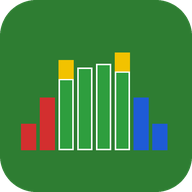
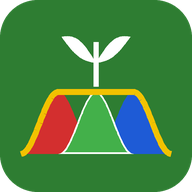
Ícono nuevo, pestaña resaltada, pantallas compactas y coma decimal
- Ícono: tres pasadas (roja, verde, azul) cuya suma es la línea amarilla
  pareja, con un brote: la app ya es de fertilización, no solo de
  calibración.
- Pestaña seleccionada con fondo y franja de color.
- Aviso "girá el celular" en Cajas y Pasadas cuando está vertical.
- Lote y Fertilizantes compactas: entran en una pantalla de 360 × 740.
- Números siempre con coma decimal y sin separador de miles.
- "Ubicación del lote (para la dosis equivalente de P)".
- Sin botones "Calibrar" en Más económica.
- Sin selector de módulo arriba (queda el botón ⇄ de las barras).

diff --git a/index.html b/index.html
@@ -19,10 +19,6 @@
       <button class="btn-info" data-ayuda aria-label="Ayuda">?</button>
       <button class="btn-info" data-acerca aria-label="Acerca de">i</button>
     </div>
-    <div class="segmentado selector-modulo">
-      <button data-ir-modulo="distribucion">Distribución</button>
-      <button data-ir-modulo="recomendacion">Recomendación y costos</button>
-    </div>
     <div class="tarjeta instalar" id="tarjeta-instalar" hidden>
       <h2>Instalar en el celular</h2>
       <p class="ayuda">Queda con su ícono y funciona sin señal en el campo.</p>
@@ -81,24 +77,21 @@
       <button class="btn-info" data-ayuda aria-label="Ayuda">?</button>
       <button class="btn-info" data-acerca aria-label="Acerca de">i</button>
     </div>
-    <div class="segmentado selector-modulo">
-      <button data-ir-modulo="distribucion">Distribución</button>
-      <button data-ir-modulo="recomendacion">Recomendación y costos</button>
-    </div>
     <div class="tarjeta">
-      <h2>Cultivo</h2>
-      <div class="segmentado" id="cultivo-sel">
-        <button data-cultivo="maiz">Maíz</button>
-        <button data-cultivo="soja">Soja</button>
-        <button data-cultivo="trigo">Trigo</button>
+      <div class="fila fila-centro">
+        <div class="segmentado" id="cultivo-sel" style="flex:2">
+          <button data-cultivo="maiz">Maíz</button>
+          <button data-cultivo="soja">Soja</button>
+          <button data-cultivo="trigo">Trigo</button>
+        </div>
+        <label class="campo"><span>Rendimiento (t/ha)</span><input type="text" inputmode="decimal" data-lote="rendimiento"></label>
       </div>
-      <label class="campo" style="margin-top:10px"><span>Rendimiento esperado (t/ha)</span><input type="text" inputmode="decimal" data-lote="rendimiento"></label>
     </div>
     <div class="tarjeta" id="tarjeta-n">
       <h2>Nitrógeno</h2>
       <div class="fila">
-        <label class="campo"><span>N de nitratos 0–60 cm a la siembra (kg N/ha)</span><input type="text" inputmode="decimal" data-lote="nSuelo"></label>
-        <label class="campo"><span>Umbral de N: suelo + fertilizante (kg N/ha)</span><input type="text" inputmode="decimal" data-lote="umbralN"></label>
+        <label class="campo"><span>Nitratos 0–60 cm a la siembra (kg N/ha)</span><input type="text" inputmode="decimal" data-lote="nSuelo"></label>
+        <label class="campo"><span>Umbral: suelo + fertilizante (kg N/ha)</span><input type="text" inputmode="decimal" data-lote="umbralN"></label>
       </div>
     </div>
     <div class="tarjeta">
@@ -107,19 +100,18 @@
         <label class="campo"><span>P Bray 1, 0–20 cm (ppm)</span><input type="text" inputmode="decimal" data-lote="bray"></label>
         <label class="campo"><span>Nivel crítico (ppm)</span><input type="text" inputmode="decimal" data-lote="criticoP"></label>
       </div>
-      <label class="check"><input type="checkbox" id="rotacion-trigo"> La rotación incluye trigo: usar 19 ppm para todos los cultivos</label>
+      <label class="check"><input type="checkbox" id="rotacion-trigo"> Rotación con trigo (crítico de 19 ppm para todos)</label>
       <div class="fila">
-        <label class="campo"><span>Arcilla, 0–20 cm (%)</span><input type="text" inputmode="decimal" data-lote="arcilla"></label>
-        <label class="campo"><span>Densidad aparente (g/cm³)</span><input type="text" inputmode="decimal" data-lote="densidad"></label>
+        <label class="campo"><span>Arcilla (%)</span><input type="text" inputmode="decimal" data-lote="arcilla"></label>
+        <label class="campo"><span>Dens. aparente (g/cm³)</span><input type="text" inputmode="decimal" data-lote="densidad"></label>
+        <label class="campo"><span>P en grano (kg P/t)</span><input type="text" inputmode="decimal" data-lote="pGrano"></label>
       </div>
-      <span class="etq-campo">Ubicación del lote</span>
+      <span class="etq-campo">Ubicación del lote (para la dosis equivalente de P)</span>
       <div class="segmentado" id="zona-sel">
         <button data-zona="1">Norte</button>
         <button data-zona="0">Sur</button>
       </div>
-      <p class="ayuda">La divisoria es la Pampa Deprimida (cuenca del Salado). <b>Norte:</b> Pampa Ondulada y Pampa Llana. <b>Sur:</b> Pampa Austral (sudeste y sudoeste bonaerense).</p>
-      <label class="campo" style="margin-top:8px"><span>P exportado por tonelada de grano (kg P/t)</span><input type="text" inputmode="decimal" data-lote="pGrano"></label>
-      <p class="ayuda">Valores por defecto: niveles críticos de Sucunza et al. (2018) y P en grano de las tablas del IPNI. Todos se pueden cambiar.</p>
+      <p class="ayuda">Respecto de la Pampa Deprimida (cuenca del Salado). <b>Norte:</b> Pampa Ondulada y Llana. <b>Sur:</b> Pampa Austral.</p>
     </div>
   </section>
 
@@ -131,11 +123,15 @@
   <!-- ============ RECOMENDACIÓN: FERTILIZANTES ============ -->
   <section class="pantalla" id="p-fert">
     <div class="tarjeta">
-      <h2>Fertilizantes y precios</h2>
-      <p class="ayuda">Grado en elemento (N-P-K-S) y, debajo, grado equivalente en óxidos (N-P₂O₅-K₂O-S), como en la bolsa. Precio en U$S por tonelada.</p>
-      <label class="campo" style="max-width:220px"><span>Fecha de los precios</span><input type="date" id="fecha-precios"></label>
+      <div class="cab-fert">
+        <h2>Precios (U$S/t)</h2>
+        <label class="fecha-chica"><span>al</span><input type="date" id="fecha-precios"></label>
+      </div>
       <div class="tabla-desliza"><table class="tabla tabla-fert" id="tabla-fert"></table></div>
-      <p class="ayuda">Debajo del costo por kg de P figura el costo por kg de P₂O₅, para comparar con las publicaciones que lo expresan así. En los compuestos (DAP, MAP) el precio se reparte entre N y P según lo que costaría cada uno en el fertilizante simple más barato.</p>
+      <p class="ayuda">Grado en elemento y, debajo, en óxidos. Costo de P: debajo, por kg de P₂O₅. En DAP y MAP el precio se reparte entre N y P.</p>
+      <div class="botones"><button class="btn chico" id="btn-actualizar-precios">Actualizar precios</button>
+        <button class="btn sec chico" id="btn-editar-lista">Editar lista</button>
+        <button class="btn sec chico" id="btn-restaurar-fert">Lista original</button></div>
     </div>
     <details class="tarjeta" id="agregar-fert">
       <summary>Agregar un fertilizante</summary>
@@ -150,9 +146,6 @@
       <label class="campo" style="max-width:220px"><span>Precio (U$S/t)</span><input type="text" inputmode="numeric" id="nf-precio"></label>
       <div class="botones"><button class="btn" id="nf-agregar">Agregar</button></div>
     </details>
-    <div class="botones"><button class="btn" id="btn-actualizar-precios">Actualizar precios</button>
-      <button class="btn sec" id="btn-editar-lista">Editar lista</button>
-      <button class="btn sec" id="btn-restaurar-fert">Volver a la lista original</button></div>
   </section>
 
   <!-- ============ RECOMENDACIÓN: COMBINACIÓN ============ -->
@@ -201,7 +194,7 @@
           <li><b>Lote:</b> elegí el cultivo y cargá el rendimiento esperado, los nitratos de 0–60 cm a la siembra, el P Bray, la arcilla, la densidad aparente y la zona (norte o sur de la Pampa Deprimida).</li>
           <li><b>Dosis N y P:</b> muestra la dosis de N y las dos dosis de P: <b>suficiencia</b> (lleva el P al nivel crítico para esta campaña) y <b>construcción y mantenimiento</b> (además repone lo que se lleva la cosecha).</li>
           <li><b>Fertilizantes:</b> con "Actualizar precios" se descargan los últimos precios publicados; también podés cargarlos a mano en U$S por tonelada. Con "Editar lista" podés quitar productos; también podés agregar otros.</li>
-          <li><b>Más económica:</b> la combinación de fertilizantes más barata que cubre la dosis. "Calibrar" lleva la dosis del producto a la calibración del módulo Distribución.</li>
+          <li><b>Más económica:</b> la combinación de fertilizantes más barata que cubre la dosis.</li>
         </ol>
       </details>
       <details>
@@ -257,6 +250,7 @@
 
   <!-- ============ CAJAS (perfil único) ============ -->
   <section class="pantalla llena" id="p-cajas">
+    <div class="girar-aviso">↻ Girá el celular para ver mejor esta pantalla</div>
     <div class="cabecera-cajas">
       <b>Peso por caja (g)</b>
       <span class="ayuda">← deslizá de costado →</span>
@@ -269,6 +263,7 @@
 
   <!-- ============ PASADAS ============ -->
   <section class="pantalla llena" id="p-pasadas">
+    <div class="girar-aviso">↻ Girá el celular para ver mejor esta pantalla</div>
     <div class="controles-pasadas">
       <div class="segmentado" id="modo-pasadas">
         <button data-modo="continuo">Continuo</button>

diff --git a/css/estilos.css b/css/estilos.css
@@ -283,5 +283,38 @@ small.eq { color: var(--texto-suave); font-size: 12px; }
 .ayuda-texto h3 { margin: 10px 0 4px; }
 
 /* Botón para cambiar de módulo, al principio de cada barra de pestañas */
-nav.pestanas button.cambiar-modulo { flex: 0.8; color: var(--verde-osc); border-right: 1px solid var(--borde); background: var(--verde-claro); }
+nav.pestanas button.cambiar-modulo { flex: 0.8; color: var(--texto-suave); border-right: 1px solid var(--borde); background: #eef0ee; }
 nav.pestanas button.cambiar-modulo .flecha { font-size: 20px; line-height: 24px; font-weight: 700; }
+
+/* Pestaña seleccionada: fondo y franja de color */
+nav.pestanas button.activa { background: var(--verde-claro); color: var(--verde-osc); box-shadow: inset 0 3px 0 var(--verde); }
+
+/* Aviso para girar el celular (solo en vertical, en Cajas y Pasadas) */
+.girar-aviso { display: none; align-items: center; justify-content: center; gap: 6px;
+  background: #fff7e0; border: 1px solid #f0d58a; color: var(--aviso); border-radius: 8px;
+  padding: 5px 8px; font-size: 13px; }
+@media (orientation: portrait) { .girar-aviso { display: flex; } }
+
+/* Lote y Fertilizantes más compactas, para que entren sin desplazarse */
+#p-lote .tarjeta, #p-fert .tarjeta { padding: 8px 10px; margin-bottom: 8px; }
+#p-lote .tarjeta h2, #p-fert .tarjeta h2 { font-size: 15px; margin: 0 0 6px; }
+#p-lote label.campo { margin-bottom: 6px; }
+#p-lote label.campo > span { font-size: 12px; line-height: 1.2; margin-bottom: 2px; }
+#p-lote input[type=text] { padding: 6px 8px; }
+#p-lote .fila { gap: 8px; align-items: flex-end; }
+#p-lote .fila-centro { align-items: flex-end; }
+#p-lote .fila-centro .segmentado { margin-bottom: 6px; }
+#p-lote .segmentado button { padding: 6px; }
+#p-lote label.check { font-size: 13px; margin: 0 0 6px; }
+#p-lote .ayuda { font-size: 12px; margin: 3px 0 0; }
+#p-lote .titulo-app, #p-ensayo .titulo-app { margin-bottom: 8px; }
+.cab-fert { display: flex; align-items: center; justify-content: space-between; gap: 8px; }
+.cab-fert h2 { margin: 0 !important; }
+.fecha-chica { display: flex; align-items: center; gap: 4px; font-size: 13px; color: var(--texto-suave); }
+.fecha-chica input { padding: 4px 6px; font-size: 13px; width: auto; }
+#p-fert .ayuda { font-size: 12px; margin: 4px 0; }
+#p-fert .botones { margin-top: 4px; gap: 6px; }
+#p-fert .tabla-fert td, #p-fert .tabla-fert th { padding-top: 2px; padding-bottom: 2px; }
+#p-fert .tabla-fert td.grado { line-height: 1.15; }
+#p-fert details.tarjeta { padding-top: 6px; padding-bottom: 6px; }
+#p-fert details summary { margin: 0; }

diff --git a/js/app-reco.js b/js/app-reco.js
@@ -252,9 +252,8 @@
     if (!ops.length) { lista.innerHTML = `<div class="aviso">No hay fertilizantes con precio que cubran lo necesario. Cargá los precios en la pantalla Fertilizantes.</div>`; return; }
     const fecha = leer(CLAVE_FECHA, "");
     lista.innerHTML = ops.map((o, i) => {
-      const filas = o.items.map((it, j) => `<li><span class="prod">${escapar(it.f.nombre)}</span>
-          <span class="cant">${fmt(it.kg, 0)} kg/ha</span><span class="costo">U$S ${fmt(it.kg * it.f.precio / 1000, 1)}</span>
-          <button class="btn sec chico" data-op="${i}" data-item="${j}">Calibrar</button></li>`).join("");
+      const filas = o.items.map((it) => `<li><span class="prod">${escapar(it.f.nombre)}</span>
+          <span class="cant">${fmt(it.kg, 0)} kg/ha</span><span class="costo">U$S ${fmt(it.kg * it.f.precio / 1000, 1)}</span></li>`).join("");
       const sobraN = o.aporteN - n, sobraP = o.aporteP - pReq;
       const sobra = [sobraN > 0.5 ? `${fmt(sobraN, 0)} kg de N` : "", sobraP > 0.5 ? `${fmt(sobraP, 0)} kg de P` : ""].filter(Boolean);
       return `<div class="tarjeta opcion${i === 0 ? " mejor" : ""}">
@@ -262,12 +261,8 @@
         <ul class="items">${filas}</ul>
         <p class="ayuda" style="margin:4px 0 0">Aporta ${fmt(o.aporteN, 0)} kg N y ${fmt(o.aporteP, 0)} kg P por ha${sobra.length ? ` (sobran ${sobra.join(" y ")})` : ""}.</p>
       </div>`;
-    }).join("") + `<p class="ayuda">Costo solo del producto, con los precios de la pantalla Fertilizantes${fecha ? ` (${fecha.split("-").reverse().join("/")})` : ""}. "Calibrar" lleva esa dosis a la calibración de la fertilizadora.</p>
+    }).join("") + `<p class="ayuda">Costo solo del producto, con los precios de la pantalla Fertilizantes${fecha ? ` (${fecha.split("-").reverse().join("/")})` : ""}.</p>
       <div class="botones"><button class="btn sec" data-informe-reco>Informe PDF</button></div>`;
-    $$("#comb-lista button[data-op]").forEach((b) => b.addEventListener("click", () => {
-      const it = ops[+b.dataset.op].items[+b.dataset.item];
-      App.calibrarPara(it.kg);
-    }));
     enlazarInforme();
   }
 

diff --git a/js/app.js b/js/app.js
@@ -105,7 +105,7 @@
   }
 
   // ---------- Navegación ----------
-  const VERSION = "3.3.0";
+  const VERSION = "3.4.0";
   let pantallaAnterior = "ensayo";
   $("#version-app").textContent = VERSION;
   $$("[data-acerca]").forEach((b) => { b.onclick = () => { if (pantalla !== "acerca" && pantalla !== "ayuda") pantallaAnterior = pantalla; irA("acerca"); }; });
@@ -745,13 +745,6 @@
   window.App = {
     irA, toast, leer, escribir, mostrarValor, aviso, fmt, abrirInforme, informe,
     registrar(p, fn) { otrasPantallas[p] = fn; },
-    // Lleva una dosis de producto (kg/ha) a la calibración de la fertilizadora.
-    calibrarPara(kgHa) {
-      cal.objetivo = Math.round(kgHa);
-      escribir(CLAVE_CAL, cal);
-      irA("dosis");
-      toast(`Dosis a calibrar: ${fmt(cal.objetivo, 0)} kg/ha`);
-    },
   };
 
   // Arranca cuando ya se cargaron todos los módulos.

diff --git a/js/recomendacion.js b/js/recomendacion.js
@@ -56,8 +56,8 @@ const Recomendacion = (() => {
   // Avisos cuando los datos salen del rango en que se ajustó el modelo de Rubio.
   function avisosRubio({ bray, arcilla }) {
     const av = [];
-    if (bray < 2.4 || bray > 35.6) av.push(`El P Bray (${bray} ppm) está fuera del rango de los suelos del trabajo (2,4 a 35,6 ppm).`);
-    if (arcilla < 8.7 || arcilla > 37.6) av.push(`La arcilla (${arcilla} %) está fuera del rango de los suelos del trabajo (8,7 a 37,6 %).`);
+    if (bray < 2.4 || bray > 35.6) av.push(`El P Bray (${String(bray).replace(".", ",")} ppm) está fuera del rango de los suelos del trabajo (2,4 a 35,6 ppm).`);
+    if (arcilla < 8.7 || arcilla > 37.6) av.push(`La arcilla (${String(arcilla).replace(".", ",")} %) está fuera del rango de los suelos del trabajo (8,7 a 37,6 %).`);
     return av;
   }
 

diff --git a/js/graficos.js b/js/graficos.js
@@ -28,7 +28,15 @@ const Graficos = (() => {
     return res;
   }
 
-  const fmt = (v, dec = 1) => v.toLocaleString("es-AR", { maximumFractionDigits: dec });
+  // Números con coma decimal y sin separador de miles (1250,5), igual en
+  // todos los teléfonos, sin depender de la configuración regional.
+  const fmt = (v, dec = 1) => {
+    if (v === null || v === undefined || !isFinite(v)) return "—";
+    let t = Number(v).toFixed(dec);
+    if (t.includes(".")) t = t.replace(/0+$/, "").replace(/\.$/, "");
+    if (t === "-0") t = "0";
+    return t.replace(".", ",");
+  };
 
   // Prepara el lienzo y devuelve funciones de escala.
   function lienzo(svg, alto, xmin, xmax, ymax, opciones = {}) {

diff --git a/sw.js b/sw.js
@@ -2,7 +2,7 @@
 // Calculadora de Fertilización · © 2026 Juan Manuel Vázquez
 // Guarda la app en el teléfono para que funcione sin conexión en el campo.
 // Al publicar cambios hay que subir el número de versión.
-const VERSION = "fertilizacion-v10";
+const VERSION = "fertilizacion-v11";
 const ARCHIVOS = [
   "./", "index.html", "manifest.webmanifest", "css/estilos.css",
   "js/motor.js", "js/graficos.js", "js/catalogo.js", "js/ejemplos.js", "js/recomendacion.js",

diff --git a/README.md b/README.md
@@ -18,7 +18,7 @@ Web app instalable en el celular que funciona sin conexión. El módulo **Distri
   - P con dos dosis: **suficiencia** (lleva el P al nivel crítico para esta campaña) y **construcción y mantenimiento** (además repone lo que exporta la cosecha).
   - Todo en kg de elemento, con el equivalente en P₂O₅.
 - **Fertilizantes:** catálogo compartido con grado y grado equivalente, precios en U$S/t guardados con su fecha (el botón "Actualizar precios" descarga los de [`precios.json`](precios.json), que se edita desde GitHub), y costo por kg de N, de P y de P₂O₅.
-- **Más económica:** prueba todas las combinaciones de uno o dos productos y ordena por costo. "Calibrar" lleva la dosis del producto a la calibración del módulo Distribución.
+- **Más económica:** prueba todas las combinaciones de uno o dos productos y ordena por costo.
 
 ## Cómo calcula
 - En cada punto suma **todas** las pasadas que lo alcanzan, no solo las vecinas, así que vale para cualquier ancho de trabajo.
